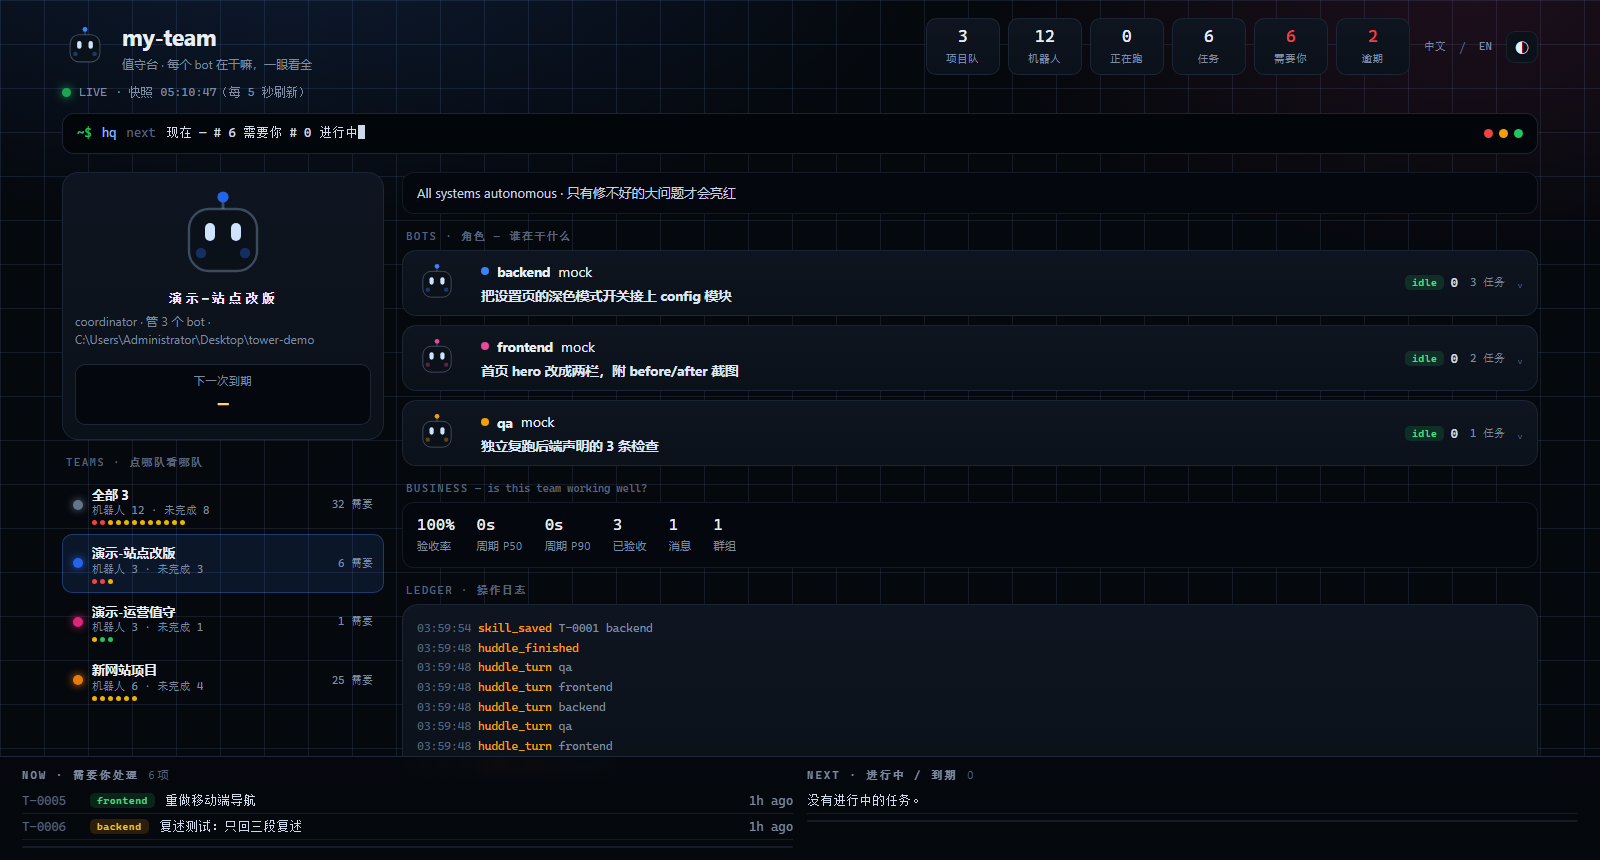
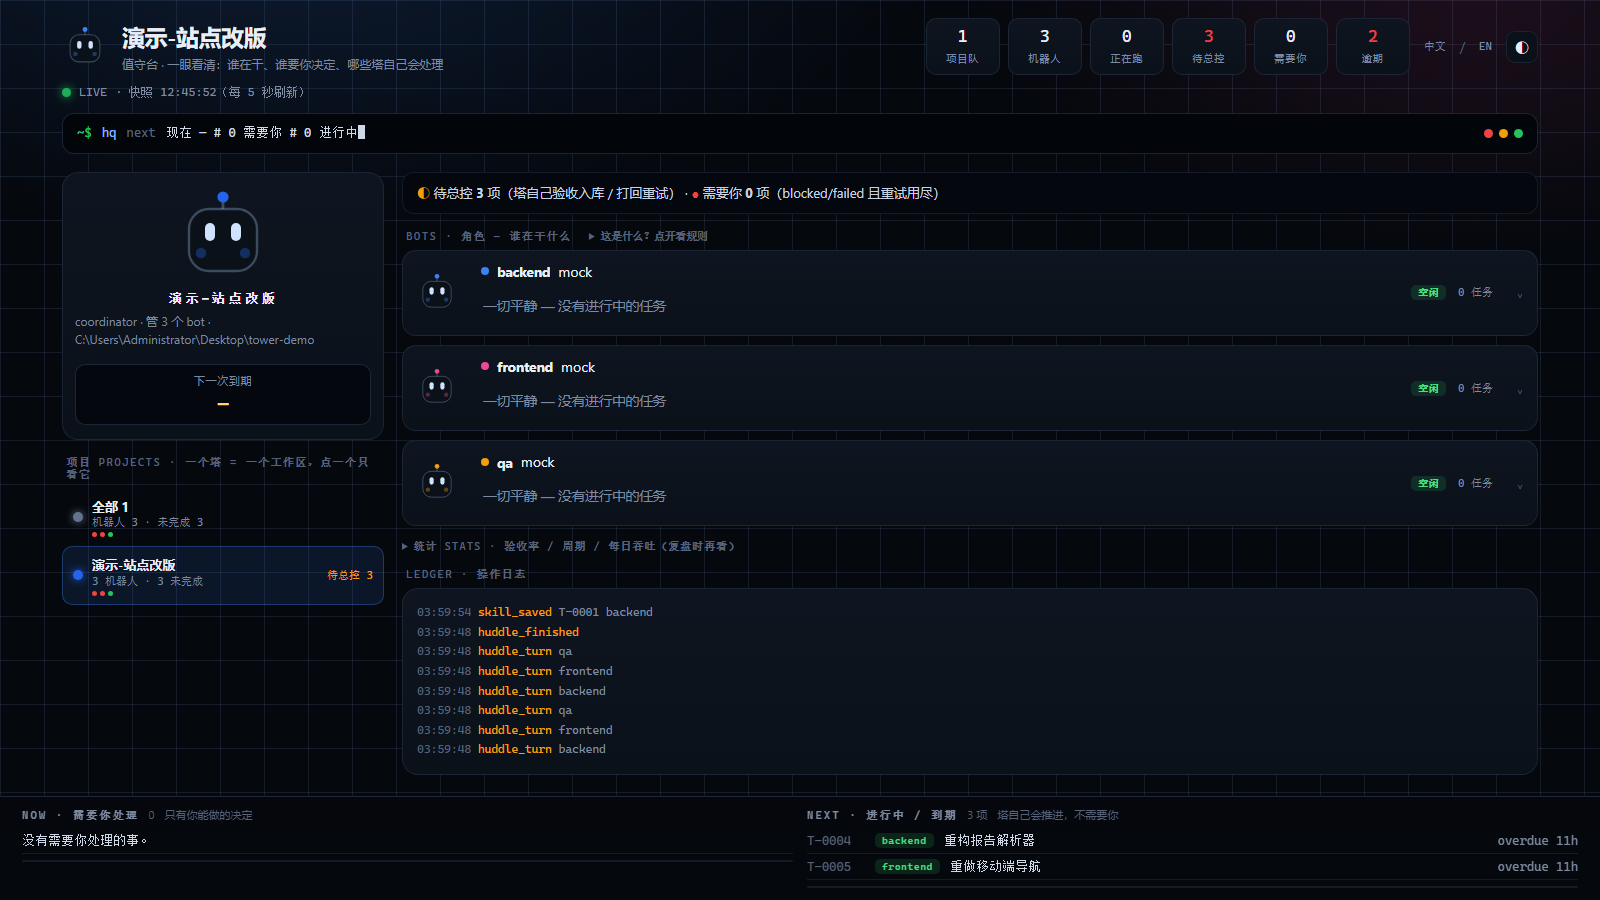
docs+panel: board-model spec, self-explaining HP page, stats folded away

diff --git a/docs/board-model.md b/docs/board-model.md
@@ -1,0 +1,86 @@
+# 看板模型（唯一规范）
+
+> 这个文件是看板、CLI、面板三处共用的一份定义。页面上的每个数字都能在这里找到公式；
+> 代码里算不出这个公式的数字，就不允许出现在页面上。
+
+## 1. 三个实体，没有第四个
+
+| 实体 | 是什么 | 存在哪里 |
+|---|---|---|
+| **项目** | 一个工作区，里面有一个塔 | `<工作区>/tower.toml` + `<工作区>/.tower/`；登记在 `~/.tower/projects.json` |
+| **bot** | `tower.toml` 里的一个角色（role），对应一个长期会话 | `tower.toml` 的 `roles:` |
+| **任务** | 一次派活，一个任务号 `T-0001` | `.tower/tasks/T-0001.json` + `.tower/ledger.jsonl` |
+
+「团队 / 队 / agent / 员工」都是同义词，看板上统一叫 **项目 / bot / 任务**。
+
+## 2. 任务只可能落在四个队列里（互斥、有优先顺序）
+
+| 队列 | 判定（按顺序第一个命中） | 谁处理 |
+|---|---|---|
+| **需要你** | `state ∈ {blocked, failed}` 且未验收 | **人**：一个具体决定（看 `## Attention`） |
+| **待总控** | `status ∈ {reported, rework, restating}`，或 `state = ready`，或已逾期 | **塔自己**：验收 / 打回重试 / 催办，不用人 |
+| **进行中** | `status ∈ {claimed, in_progress}` | bot |
+| **已完成** | `status = accepted` | 谁也不占：只计数，不进任何队列 |
+
+硬规则：
+
+1. `accepted` 的任务**永远**不进「需要你」和「待总控」。之前"需要你 32 个"就是这条被违反造成的。
+2. 只有 `blocked` / `failed` 才计入「需要你」，而且必须有 `## Attention` 里的一个具体问题。
+3. 塔的重试次数上限是角色的 `max_rounds`；用尽后任务从「待总控」升级到「需要你」。
+
+## 3. 页面数字的公式（一处实现，三处显示）
+
+| 页面上的数字 | 公式 |
+|---|---|
+| 项目 | `~/.tower/projects.json` 里登记的项目数 |
+| bot | 当前项目的角色数；「全部项目」视图为各项目之和 |
+| 进行中 | 当前项目 `status ∈ {claimed, in_progress}` 的任务数 |
+| 待总控 | 当前项目 `Board.needs_lead()` 的长度 |
+| 需要你 | 当前项目 `Board.needs_person()` 的长度 |
+| 逾期 | `due_at` 已过且未验收；**为 0 时不显示** |
+| 已完成 | `status = accepted` 的任务数（只出现在「统计」里） |
+| 验收率 | `accepted / (accepted + rework)`；没有裁决时显示 `—`，不显示 0% |
+| 周期 | 创建 → 首次 accepted 的秒数，取 p50 / p90 |
+
+## 4. 接入逻辑：任务只能从这三条路进塔
+
+```
+① CLI            tower dispatch <bot> "<brief>"   /  tower batch ...  /  tower restate ok
+② DSH 插件工具    tower_dispatch（内部就是调 ①，同一份 CLI）
+③ 脚本 / 定时     直接调 ①
+```
+
+- 进来即落盘：`.tower/tasks/T-xxxx.json`；看板**只读**，页面上没有任何写操作。
+- 所以「为什么看板上没有这条任务」的答案永远是：**没人用上面三条路把它派进来**（或它已 accepted）。
+
+## 5. 瞄准（一个 profile 对应哪一个塔）
+
+优先级，前一个命中就停：
+
+```
+1. profile 配置      cordis.patch.yml → tower.workspace   （显式瞄准，更新也不会改）
+2. 绑定记录          ~/.tower/binding.json                  （上次真正干活的塔；配置丢了就接回它）
+3. 当前项目          ~/.tower/active                        （tower projects use 写的）
+```
+
+- `tower doctor` 会打印 `aim:`，配置与绑定不一致时在派活前给出警告。
+- 未登记的项目**不会**出现在看板上（演示塔不会混进来）；登记用 `tower projects add|scan`。
+- 插件更新只换代码，不碰塔数据；丢了瞄准会按上面顺序自动接回。
+
+## 6. 闭环（从派活到沉淀）
+
+```
+dispatch → bot 干活 → 写回执 → triage（自动）
+                                   ├─ 验收通过 → accepted
+                                   ├─ 没过且有重试额度 → 打回，附上失败原因，重派
+                                   └─ 重试用尽 / blocked → 升级到「需要你」
+accepted → tower skill save → 下次派活自动注入该 bot 的技能索引
+```
+
+`tower triage` 跑整条队列；`tower dispatch` 默认在交回执后**自动**跑同一套（`--no-auto` 可关）。
+
+## 7. 页面上不允许出现的东西
+
+- 没有公式的数字（例如把「已验收」算进「需要你」）。
+- 无意义的分类（「未完成」这种既是状态又不是状态的说法）。
+- 演示数据冒充真实项目：演示塔可以存在，但必须未登记或显式命名为 `演示-*`。

diff --git a/CHANGELOG.md b/CHANGELOG.md
@@ -5,6 +5,37 @@ All notable changes to this project are documented here. The format follows
 [Semantic Versioning](https://semver.org/): the Python package
 (`agent-control-tower`) and the DSH bundle (`dsh-tower`) share one version.
 
+## [0.7.7] - 2026-11-08
+
+### Added
+
+- **`tower triage` — the tower closes the ordinary loop itself.** A reported task is verified; if it
+  passes it is accepted (`auto_accepted` in the ledger), if it fails it is sent back **quoting its own
+  verification problems** and retried inside the role's `max_rounds`, and a task that runs out of
+  rounds is escalated with one concrete question. `tower dispatch`/`batch`/`restate ok` run the same
+  pass automatically (`--no-auto` opts out), so a job the verifier already accepted never waits for a
+  person. `auto_triage` in `tower.toml` turns it off globally.
+- **`docs/board-model.md` — one written model for the board.** Entities (project → bot → task), the
+  four mutually exclusive queues with their exact predicates, the formula behind every number on the
+  page, the three ways work can enter a tower, and the aim precedence. The page, the CLI and the panel
+  now read the same decisions instead of each deciding for itself.
+
+### Fixed
+
+- **"Needs you" counted finished work.** `PERSON_STATES` included `ready`, so every accepted task
+  stayed in the human queue: a real tower showed `需要你 32` while only one task actually needed a
+  decision. Accepted tasks are now excluded everywhere, and the board shows `需要你 2` for the same
+  tower.
+- **The board disagreed with itself.** A restating task (which carries an attention question) was
+  counted as a person decision in the snapshot but as tower work in the project badge; an
+  `in_progress` task was counted as tower queue. The snapshot now reuses `Board.needs_person()` /
+  `Board.needs_lead()` verbatim, so badge, KPI and dock cannot drift.
+- **The page called itself `my-team`.** The board title is the registered project name (falling back
+  to `tower.toml`), so a person sees `evergocasa-new`, not a scaffold placeholder.
+- **The board was noisy for a first-time reader.** Five KPIs with written tooltips, only three
+  queues, an inline "这是什么？点开看规则" legend, a collapsed 统计 section for the business numbers,
+  and an empty state that says how to dispatch the first task.
+
 ## [0.7.6] - 2026-11-08
 
 ### Added

diff --git a/README.md b/README.md
@@ -170,6 +170,20 @@ active one — the panel defaults to it, and the DSH bundle's `tower_*` tools fo
 
 Deep links: `?lang=zh`, `?theme=dark`, `?project=<name>`, `?project=__all__`.
 
+**Every number has a written formula.** The board is for people, so the model is
+specified once — [docs/board-model.md](docs/board-model.md) — and the page, the CLI
+and the panel all read the same decisions:
+
+| Queue | Who owns it |
+|---|---|
+| 需要你 / *needs you* | a person: only `blocked` or `failed` (retries exhausted) |
+| 待总控 / *tower queue* | the tower: verify → accept, or rework with the failure reasons |
+| 进行中 / *in flight* | the bot |
+| 已完成 / *done* | nobody: accepted tasks never occupy a queue |
+
+`tower triage` closes that loop; `tower dispatch` runs it automatically after a
+report (`--no-auto` opts out), so an accepted-by-verifier job never waits for a human.
+
 Two renderings of the same snapshot — the terminal (`tower board`) and a local read-only web panel
 (`tower panel`). Person-states first, healthy work takes no space.
 

diff --git a/CONTRIBUTING.md b/CONTRIBUTING.md
@@ -26,6 +26,9 @@ tower demo           # end-to-end offline demo, must print verify: PASS
 Python 3.10+. Runtime dependency: `PyYAML` only. Please keep it that way; the tower should stay
 installable on a potato.
 
+The board's own rules (entities, queues, every number's formula) live in
+[`docs/board-model.md`](docs/board-model.md). Change that file first, then the code.
+
 ## Keeping a local DSH install in sync
 
 The checkout and the installed bundle are two copies. `git pull` moves only the checkout: the desktop
